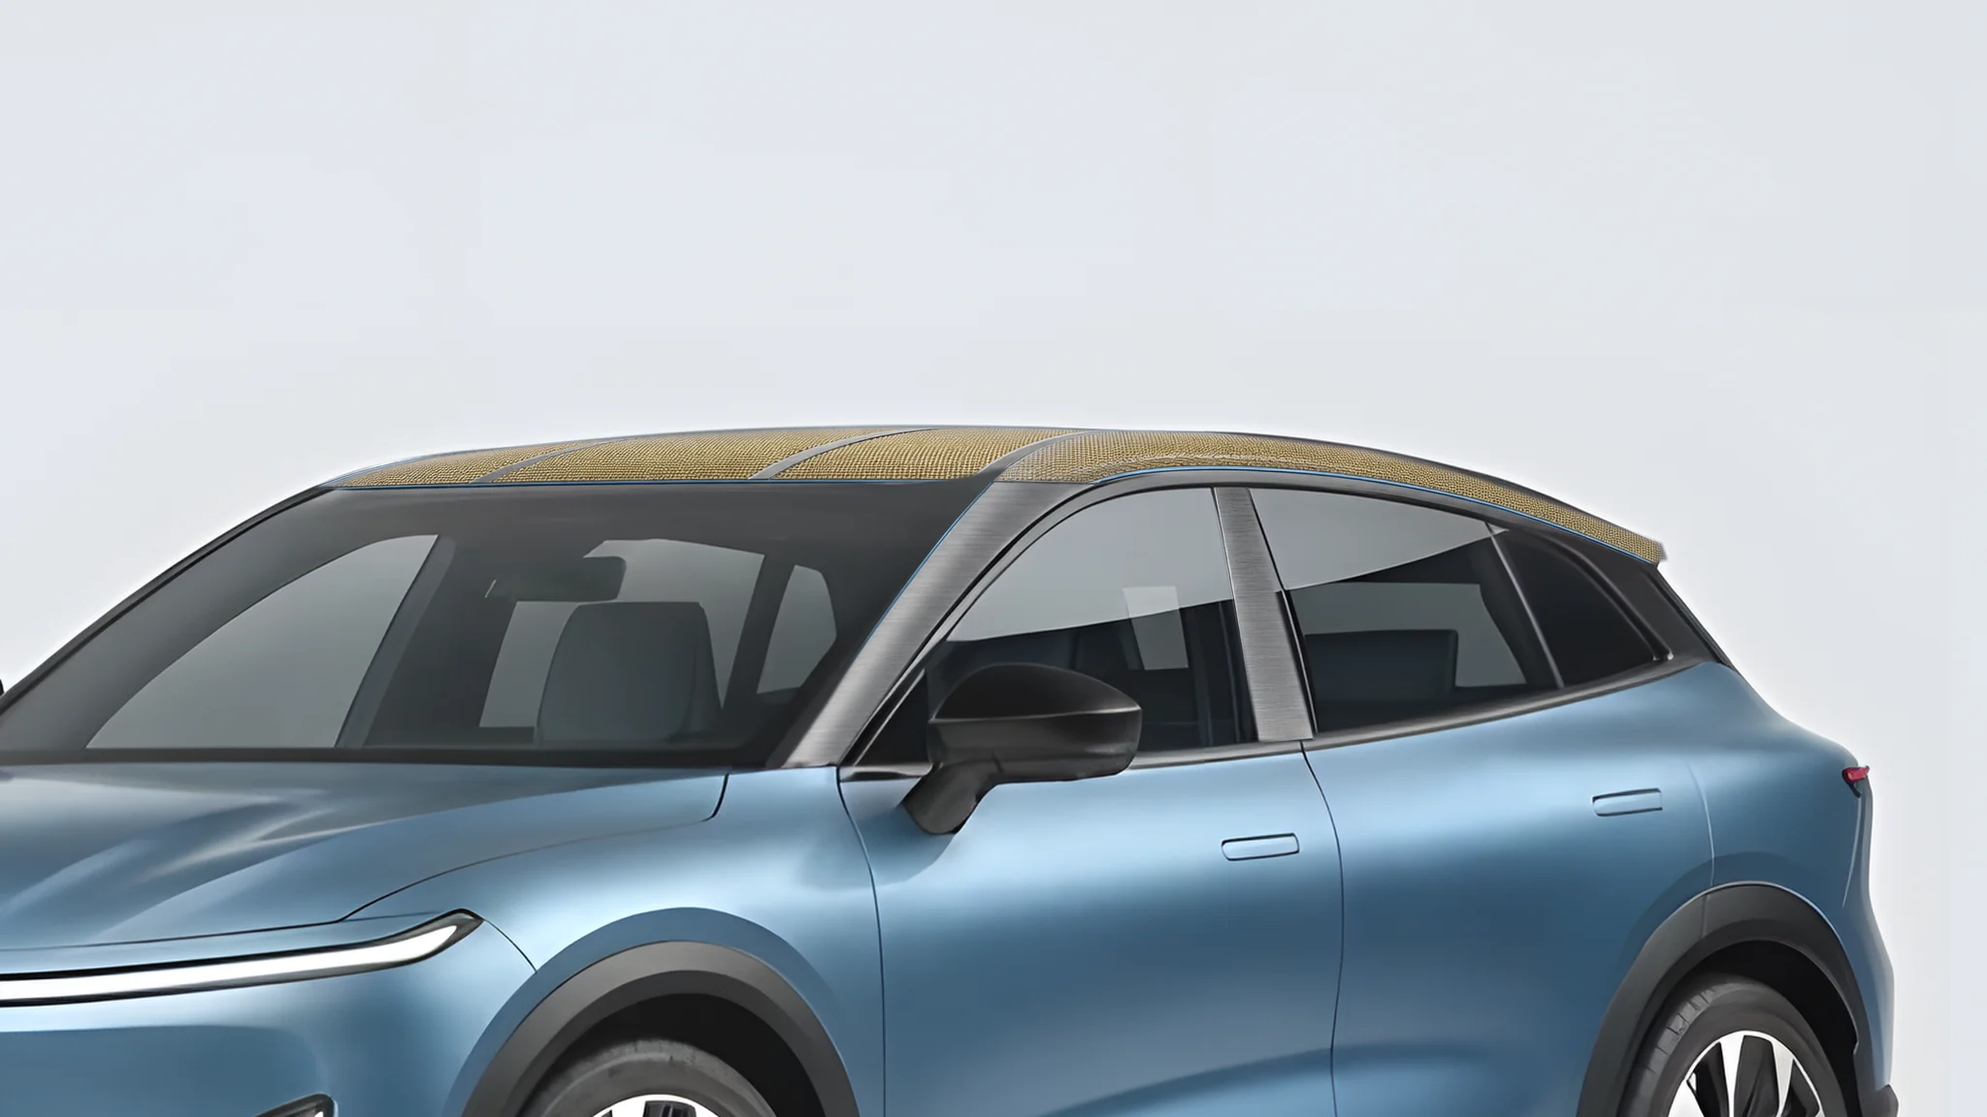
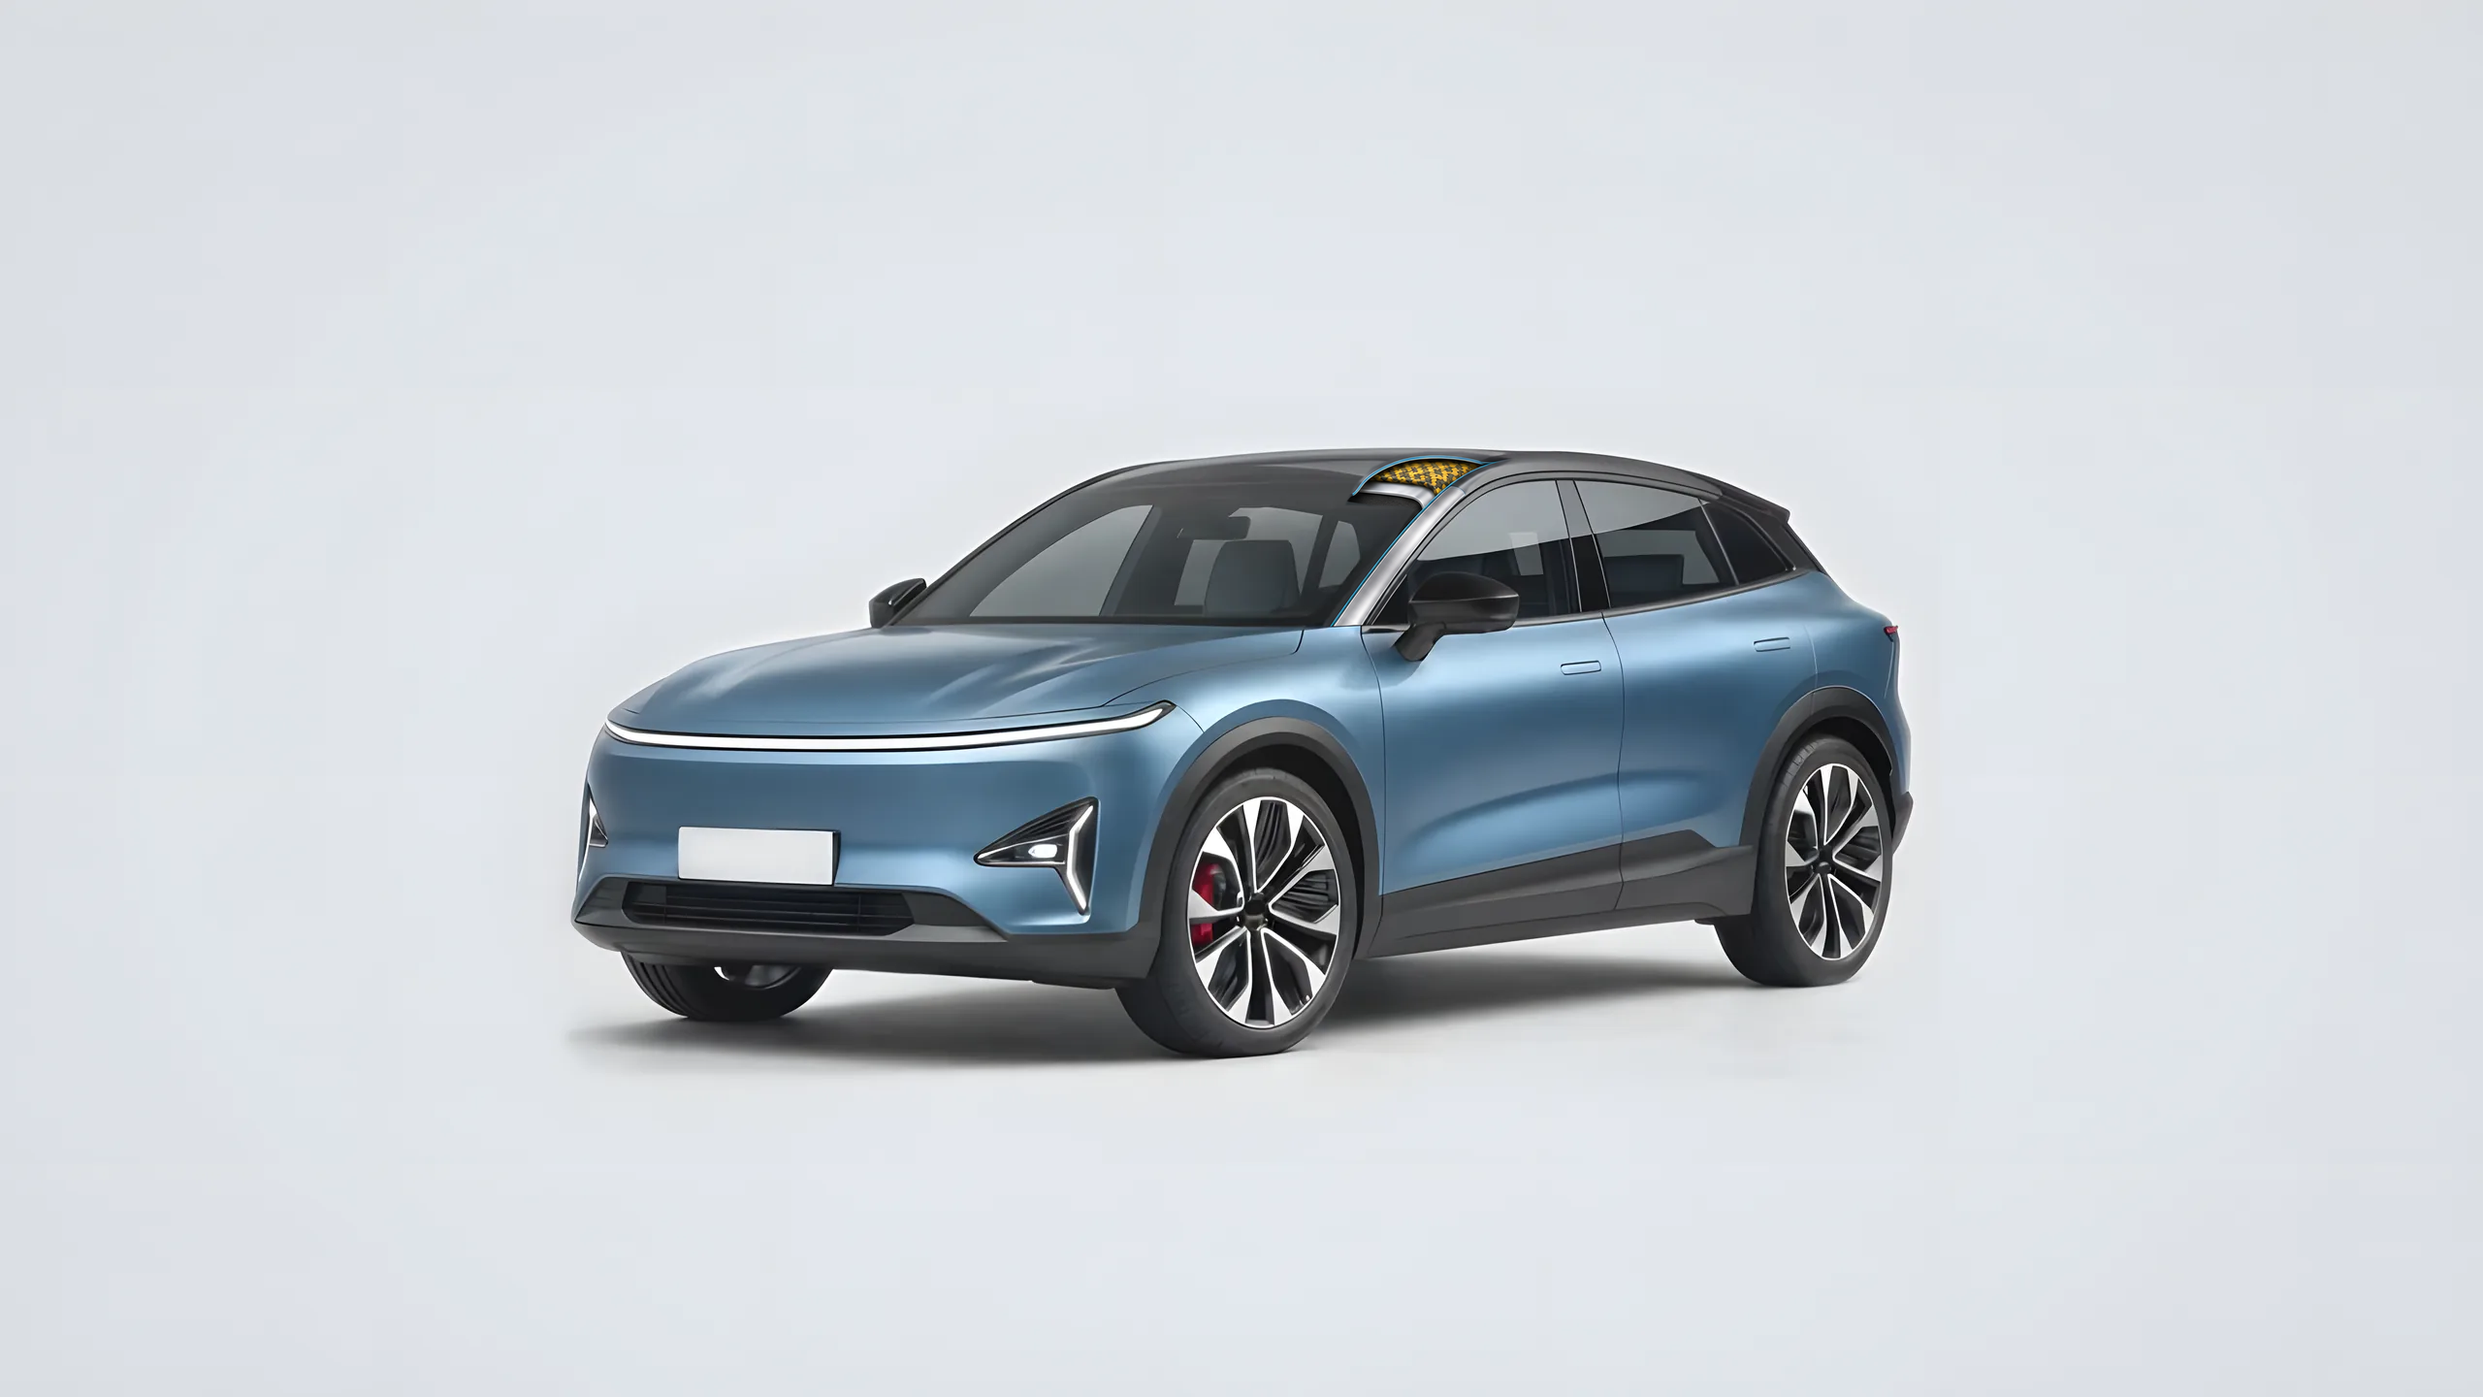
Refina os seis cortes do SUV com quadro preservado e zoom integrado

diff --git a/blindagem.html b/blindagem.html
@@ -38,15 +38,15 @@
           <div class="tour-visual"><div class="tour-canvas">
             <div class="tour-camera">
             <img class="tour-frame" src="assets/media/suv-generico/000.webp?v=kling2" alt="SUV conceitual sem marca, vista dianteira lateral. Imagem gerada por IA." width="2560" height="1440" draggable="false" fetchpriority="high">
+            <img class="tour-cut" alt="" width="2560" height="1440" hidden>
             </div>
-            <img class="tour-cut" alt="" width="2048" height="1152" hidden>
             <div class="tour-drag" role="slider" tabindex="0" aria-label="Girar o veículo" aria-valuemin="0" aria-valuemax="180" aria-valuenow="0" aria-valuetext="0 graus" aria-describedby="tour-hint" aria-disabled="true"></div>
-            <div class="tour-pins"><svg viewBox="0 0 100 100" preserveAspectRatio="none" aria-hidden="true"><path d="M 40 31 L 45 40"/><circle cx="45" cy="40" r=".55"/><path d="M 68 63 L 64 52"/><circle cx="64" cy="52" r=".55"/><path d="M 62 24 L 58 34"/><circle cx="58" cy="34" r=".55"/><path d="M 51 25 L 55 41"/><circle cx="55" cy="41" r=".55"/><path d="M 45 80 L 51 66"/><circle cx="51" cy="66" r=".55"/><path d="M 80 34 L 72 40"/><circle cx="72" cy="40" r=".55"/></svg><button type="button" class="tour-pin" data-part="vidros" style="--x:40%;--y:31%" aria-label="01 — Vidros balísticos" aria-controls="tour-detail" aria-expanded="false"><span>01</span></button><button type="button" class="tour-pin" data-part="portas" style="--x:68%;--y:63%" aria-label="02 — Proteção das portas" aria-controls="tour-detail" aria-expanded="false"><span>02</span></button><button type="button" class="tour-pin" data-part="opaca" style="--x:62%;--y:24%" aria-label="03 — Teto e colunas" aria-controls="tour-detail" aria-expanded="false"><span>03</span></button><button type="button" class="tour-pin" data-part="unioes" style="--x:51%;--y:25%" aria-label="04 — Encontros da proteção" aria-controls="tour-detail" aria-expanded="false"><span>04</span></button><button type="button" class="tour-pin" data-part="pneus" style="--x:45%;--y:80%" aria-label="05 — Pneus e rodas" aria-controls="tour-detail" aria-expanded="false"><span>05</span></button><button type="button" class="tour-pin" data-part="mecanismos" style="--x:80%;--y:34%" aria-label="06 — Mecanismos dos vidros" aria-controls="tour-detail" aria-expanded="false"><span>06</span></button></div>
+            <div class="tour-pins"><svg viewBox="0 0 100 100" preserveAspectRatio="none" aria-hidden="true"><path d="M 40 31 L 50 41"/><circle cx="50" cy="41" r=".55"/><path d="M 68 63 L 60 57"/><circle cx="60" cy="57" r=".55"/><path d="M 62 24 L 58 34"/><circle cx="58" cy="34" r=".55"/><path d="M 51 25 L 55 41"/><circle cx="55" cy="41" r=".55"/><path d="M 45 80 L 51 66"/><circle cx="51" cy="66" r=".55"/><path d="M 74 47 L 61 49"/><circle cx="61" cy="49" r=".55"/></svg><button type="button" class="tour-pin" data-part="vidros" style="--x:40%;--y:31%" aria-label="01 — Vidros balísticos" aria-controls="tour-detail" aria-expanded="false"><span>01</span></button><button type="button" class="tour-pin" data-part="portas" style="--x:68%;--y:63%" aria-label="02 — Proteção das portas" aria-controls="tour-detail" aria-expanded="false"><span>02</span></button><button type="button" class="tour-pin" data-part="opaca" style="--x:62%;--y:24%" aria-label="03 — Teto e colunas" aria-controls="tour-detail" aria-expanded="false"><span>03</span></button><button type="button" class="tour-pin" data-part="unioes" style="--x:51%;--y:25%" aria-label="04 — Encontros da proteção" aria-controls="tour-detail" aria-expanded="false"><span>04</span></button><button type="button" class="tour-pin" data-part="pneus" style="--x:45%;--y:80%" aria-label="05 — Pneus e rodas" aria-controls="tour-detail" aria-expanded="false"><span>05</span></button><button type="button" class="tour-pin" data-part="mecanismos" style="--x:74%;--y:47%" aria-label="06 — Mecanismos dos vidros" aria-controls="tour-detail" aria-expanded="false"><span>06</span></button></div>
           </div></div>
 
           <nav class="tour-parts" aria-label="Áreas de proteção"><button type="button" data-part="vidros" aria-controls="tour-detail" aria-expanded="false" aria-label="01 — Vidros balísticos"><span>01</span><span class="tour-part-label">Vidros balísticos</span></button><button type="button" data-part="portas" aria-controls="tour-detail" aria-expanded="false" aria-label="02 — Proteção das portas"><span>02</span><span class="tour-part-label">Proteção das portas</span></button><button type="button" data-part="opaca" aria-controls="tour-detail" aria-expanded="false" aria-label="03 — Teto e colunas"><span>03</span><span class="tour-part-label">Teto e colunas</span></button><button type="button" data-part="unioes" aria-controls="tour-detail" aria-expanded="false" aria-label="04 — Encontros da proteção"><span>04</span><span class="tour-part-label">Encontros da proteção</span></button><button type="button" data-part="pneus" aria-controls="tour-detail" aria-expanded="false" aria-label="05 — Pneus e rodas"><span>05</span><span class="tour-part-label">Pneus e rodas</span></button><button type="button" data-part="mecanismos" aria-controls="tour-detail" aria-expanded="false" aria-label="06 — Mecanismos dos vidros"><span>06</span><span class="tour-part-label">Mecanismos dos vidros</span></button></nav>
         </div>
-        <aside class="tour-detail" id="tour-detail" aria-label="Detalhe da proteção" tabindex="-1" hidden><button type="button" class="tour-close" data-action="close" aria-label="Fechar detalhe">✕</button><div class="tour-panel-content" aria-live="polite" aria-atomic="true"><article data-detail="vidros" hidden><span class="tour-kicker">01 / Vidros balísticos</span><h2>Camadas que protegem.</h2><p>Lâminas de vidro e polímeros compõem a proteção das áreas transparentes. O corte destaca, de forma ilustrativa, como essas camadas se integram ao vidro.</p><ul><li>Proteção das áreas transparentes</li><li>Composição definida para cada projeto</li></ul><figure><img src="assets/media/suv-generico/detalhes/vidros.webp" alt="Detalhe ilustrativo: camadas do vidro" width="1280" height="720" loading="lazy"><figcaption>Representação ilustrativa</figcaption></figure></article><article data-detail="portas" hidden><span class="tour-kicker">02 / Proteção das portas</span><h2>Proteção sob o acabamento.</h2><p>A porta recebe materiais de proteção nas áreas previstas pelo projeto. A ilustração separa as camadas para mostrar o que fica sob o acabamento.</p><ul><li>Materiais integrados à porta</li><li>Atenção aos encontros e acabamentos</li></ul><figure><img src="assets/media/suv-generico/detalhes/portas.webp" alt="Detalhe ilustrativo: proteção da porta" width="1280" height="720" loading="lazy"><figcaption>Representação ilustrativa</figcaption></figure></article><article data-detail="opaca" hidden><span class="tour-kicker">03 / Teto e colunas</span><h2>Além dos vidros.</h2><p>Áreas opacas são as partes sem vidro, como teto e colunas. Mantas de aramida e componentes de aço podem compor sua proteção, conforme a aplicação.</p><ul><li>Proteção nas partes sem vidro</li><li>Materiais escolhidos conforme o veículo</li></ul><figure><img src="assets/media/suv-generico/detalhes/opaca.webp" alt="Detalhe ilustrativo: teto e coluna" width="1280" height="720" loading="lazy"><figcaption>Representação ilustrativa</figcaption></figure></article><article data-detail="unioes" hidden><span class="tour-kicker">04 / Encontros da proteção</span><h2>Proteção que se conecta.</h2><p>As sobreposições, também chamadas de overlap, conectam a proteção dos vidros às partes sem vidro. O corte destaca esse encontro entre os componentes.</p><ul><li>Continuidade entre os materiais</li><li>Atenção às bordas e uniões</li></ul><figure><img src="assets/media/suv-generico/detalhes/unioes.webp" alt="Detalhe ilustrativo: sobreposição da proteção" width="1280" height="720" loading="lazy"><figcaption>Representação ilustrativa</figcaption></figure></article><article data-detail="pneus" hidden><span class="tour-kicker">05 / Pneus e rodas</span><h2>Mobilidade a considerar.</h2><p>Soluções de suporte à rodagem têm condições próprias de uso. O corte mostra uma opção conceitual; a compatibilidade e a disponibilidade precisam ser avaliadas.</p><ul><li>Avaliação para cada veículo</li><li>Não representa um sistema instalado neste veículo</li></ul><figure><img src="assets/media/suv-generico/detalhes/pneus.webp" alt="Detalhe ilustrativo: pneu e suporte à rodagem" width="1280" height="720" loading="lazy"><figcaption>Representação ilustrativa</figcaption></figure></article><article data-detail="mecanismos" hidden><span class="tour-kicker">06 / Mecanismos dos vidros</span><h2>O cuidado também está no movimento.</h2><p>Guias, acionamento e sustentação fazem parte do funcionamento dos vidros. O corte permite visualizar um mecanismo ilustrativo dentro da porta.</p><ul><li>Funcionamento considerado no projeto</li><li>Inspeção depois da montagem</li></ul><figure><img src="assets/media/suv-generico/detalhes/mecanismos.webp" alt="Detalhe ilustrativo: mecanismo do vidro" width="1280" height="720" loading="lazy"><figcaption>Representação ilustrativa</figcaption></figure></article></div><div class="tour-detail-nav"><button type="button" data-action="previous-detail" aria-label="Detalhe anterior">←</button><span class="tour-detail-count">01 / 06</span><button type="button" data-action="next-detail" aria-label="Próximo detalhe">→</button></div></aside>
+        <aside class="tour-detail" id="tour-detail" aria-label="Detalhe da proteção" tabindex="-1" hidden><button type="button" class="tour-close" data-action="close" aria-label="Fechar detalhe">✕</button><div class="tour-panel-content" aria-live="polite" aria-atomic="true"><article data-detail="vidros" hidden><span class="tour-kicker">01 / Vidros balísticos</span><h2>Camadas que protegem.</h2><p>Lâminas de vidro e polímeros compõem a proteção das áreas transparentes. O corte destaca, de forma ilustrativa, como essas camadas se integram ao vidro.</p><ul><li>Proteção das áreas transparentes</li><li>Composição definida para cada projeto</li></ul><figure><img src="assets/media/suv-generico/detalhes/vidros.webp?v=suv4" alt="Detalhe ilustrativo: camadas do vidro" width="1672" height="941" loading="lazy"><figcaption>Representação ilustrativa</figcaption></figure></article><article data-detail="portas" hidden><span class="tour-kicker">02 / Proteção das portas</span><h2>Proteção sob o acabamento.</h2><p>A porta recebe materiais de proteção nas áreas previstas pelo projeto. A ilustração separa as camadas para mostrar o que fica sob o acabamento.</p><ul><li>Materiais integrados à porta</li><li>Atenção aos encontros e acabamentos</li></ul><figure><img src="assets/media/suv-generico/detalhes/portas.webp?v=suv4" alt="Detalhe ilustrativo: proteção da porta" width="936" height="527" loading="lazy"><figcaption>Representação ilustrativa</figcaption></figure></article><article data-detail="opaca" hidden><span class="tour-kicker">03 / Teto e colunas</span><h2>Além dos vidros.</h2><p>Áreas opacas são as partes sem vidro, como teto e colunas. Mantas de aramida e componentes de aço podem compor sua proteção, conforme a aplicação.</p><ul><li>Proteção nas partes sem vidro</li><li>Materiais escolhidos conforme o veículo</li></ul><figure><img src="assets/media/suv-generico/detalhes/opaca.webp?v=suv4" alt="Detalhe ilustrativo: teto e coluna" width="601" height="337" loading="lazy"><figcaption>Representação ilustrativa</figcaption></figure></article><article data-detail="unioes" hidden><span class="tour-kicker">04 / Encontros da proteção</span><h2>Proteção que se conecta.</h2><p>As sobreposições, também chamadas de overlap, conectam a proteção dos vidros às partes sem vidro. O corte destaca esse encontro entre os componentes.</p><ul><li>Continuidade entre os materiais</li><li>Atenção às bordas e uniões</li></ul><figure><img src="assets/media/suv-generico/detalhes/unioes.webp?v=suv4" alt="Detalhe ilustrativo: sobreposição da proteção" width="624" height="351" loading="lazy"><figcaption>Representação ilustrativa</figcaption></figure></article><article data-detail="pneus" hidden><span class="tour-kicker">05 / Pneus e rodas</span><h2>Mobilidade a considerar.</h2><p>Soluções de suporte à rodagem têm condições próprias de uso. O corte mostra uma opção conceitual; a compatibilidade e a disponibilidade precisam ser avaliadas.</p><ul><li>Avaliação para cada veículo</li><li>Não representa um sistema instalado neste veículo</li></ul><figure><img src="assets/media/suv-generico/detalhes/pneus.webp?v=suv4" alt="Detalhe ilustrativo: pneu e suporte à rodagem" width="850" height="478" loading="lazy"><figcaption>Representação ilustrativa</figcaption></figure></article><article data-detail="mecanismos" hidden><span class="tour-kicker">06 / Mecanismos dos vidros</span><h2>O cuidado também está no movimento.</h2><p>Guias, acionamento e sustentação fazem parte do funcionamento dos vidros. O corte permite visualizar um mecanismo ilustrativo dentro da porta.</p><ul><li>Funcionamento considerado no projeto</li><li>Inspeção depois da montagem</li></ul><figure><img src="assets/media/suv-generico/detalhes/mecanismos.webp?v=suv4" alt="Detalhe ilustrativo: mecanismo do vidro" width="1136" height="639" loading="lazy"><figcaption>Representação ilustrativa</figcaption></figure></article></div><div class="tour-detail-nav"><button type="button" data-action="previous-detail" aria-label="Detalhe anterior">←</button><span class="tour-detail-count">01 / 06</span><button type="button" data-action="next-detail" aria-label="Próximo detalhe">→</button></div></aside>
         <div class="tour-bottom"><p id="tour-hint">Arraste para girar. Toque nos números para explorar.</p><div class="tour-controls"><button type="button" data-action="previous" aria-label="Ângulo anterior" disabled>←</button><button type="button" data-action="play" aria-pressed="false" disabled>Girar</button><button type="button" data-action="next" aria-label="Próximo ângulo" disabled>→</button><button type="button" data-action="home">◎ <span>Visão geral</span></button></div></div>
         <div class="tour-feedback"><p class="tour-status" role="status">Carregando o giro…</p><button type="button" data-action="retry" hidden>Tentar novamente</button></div>
       </div>

diff --git a/assets/blindagem-v3.js b/assets/blindagem-v3.js
@@ -20,22 +20,21 @@
   // shortcut: meia volta (0–180°) gerada no Kling, sem versão aberta; giro completo precisa de modelo 3D.
   const count = 37, home = 0, root = 'assets/media/suv-generico/';
   const images = new Map();
-  // [x, y, zoom]: canto do recorte de cada corte na imagem inteira (box/3840×2160 da base 4K). A câmera enquadra exatamente esse recorte.
+  // O corte tem o mesmo quadro do giro; ambos acompanham a mesma câmera.
   const views = {
-    vidros:[.3177,.2222,3], portas:[.4479,.375,3], opaca:[.3724,.162,2.4],
-    unioes:[.4844,.2593,5], pneus:[.332,.4861,3], mecanismos:[.4948,.287,3]
+    vidros:[.22,.10,1.6], portas:[.29,.25,1.6], opaca:[.25,.07,1.6],
+    unioes:[.25,.12,1.6], pneus:[.19,.35,1.6], mecanismos:[.29,.23,1.6]
   };
   let cameraPart = null, fade = null;
   let mode = 'closed', frame = home, active = null, ready = false, busy = false;
   let timer = null, direction = 1, drag = null, revision = 0, retryAction = null, lastTrigger = null;
   const source = (state, index) => `${root}${String(index).padStart(3, '0')}.webp?v=kling2`;
-  const cutSource = key => `${root}cortes/${key}.webp?v=suv3`;
+  const cutSource = key => `${root}cortes/${key}.webp?v=suv4`;
   function moveCamera(key) {
     cameraPart = key;
     const [x,y,s] = views[key] || [0,0,1];
     camera.style.transform = key ? `translate(${-s*x*100}%, ${-s*y*100}%) scale(${s})` : 'none';
   }
-  // The cut covers the stage once the camera has framed its crop, so it is shown at full resolution.
   function showCut(src, alt) {
     fade?.cancel(); fade = null;
     cut.src = src; cut.alt = alt; cut.hidden = false;
@@ -126,7 +125,7 @@
       if (ticket !== revision) return;
       if (!cameraPart) { mode = 'closed'; ready = true; render(home); }
       moveCamera(key);
-      showCut(cutSource(key), `Ilustração gerada por IA: ${articles[keys.indexOf(key)].querySelector('h2').textContent}. Corte conceitual; não representa a construção real.`, true);
+      showCut(cutSource(key), `Ilustração gerada por IA: ${articles[keys.indexOf(key)].querySelector('h2').textContent}. Corte conceitual; não representa a construção real.`);
       hint.textContent = 'Corte ilustrativo. “Visão geral” recompõe o veículo.';
       status.textContent = '';
     } catch {
